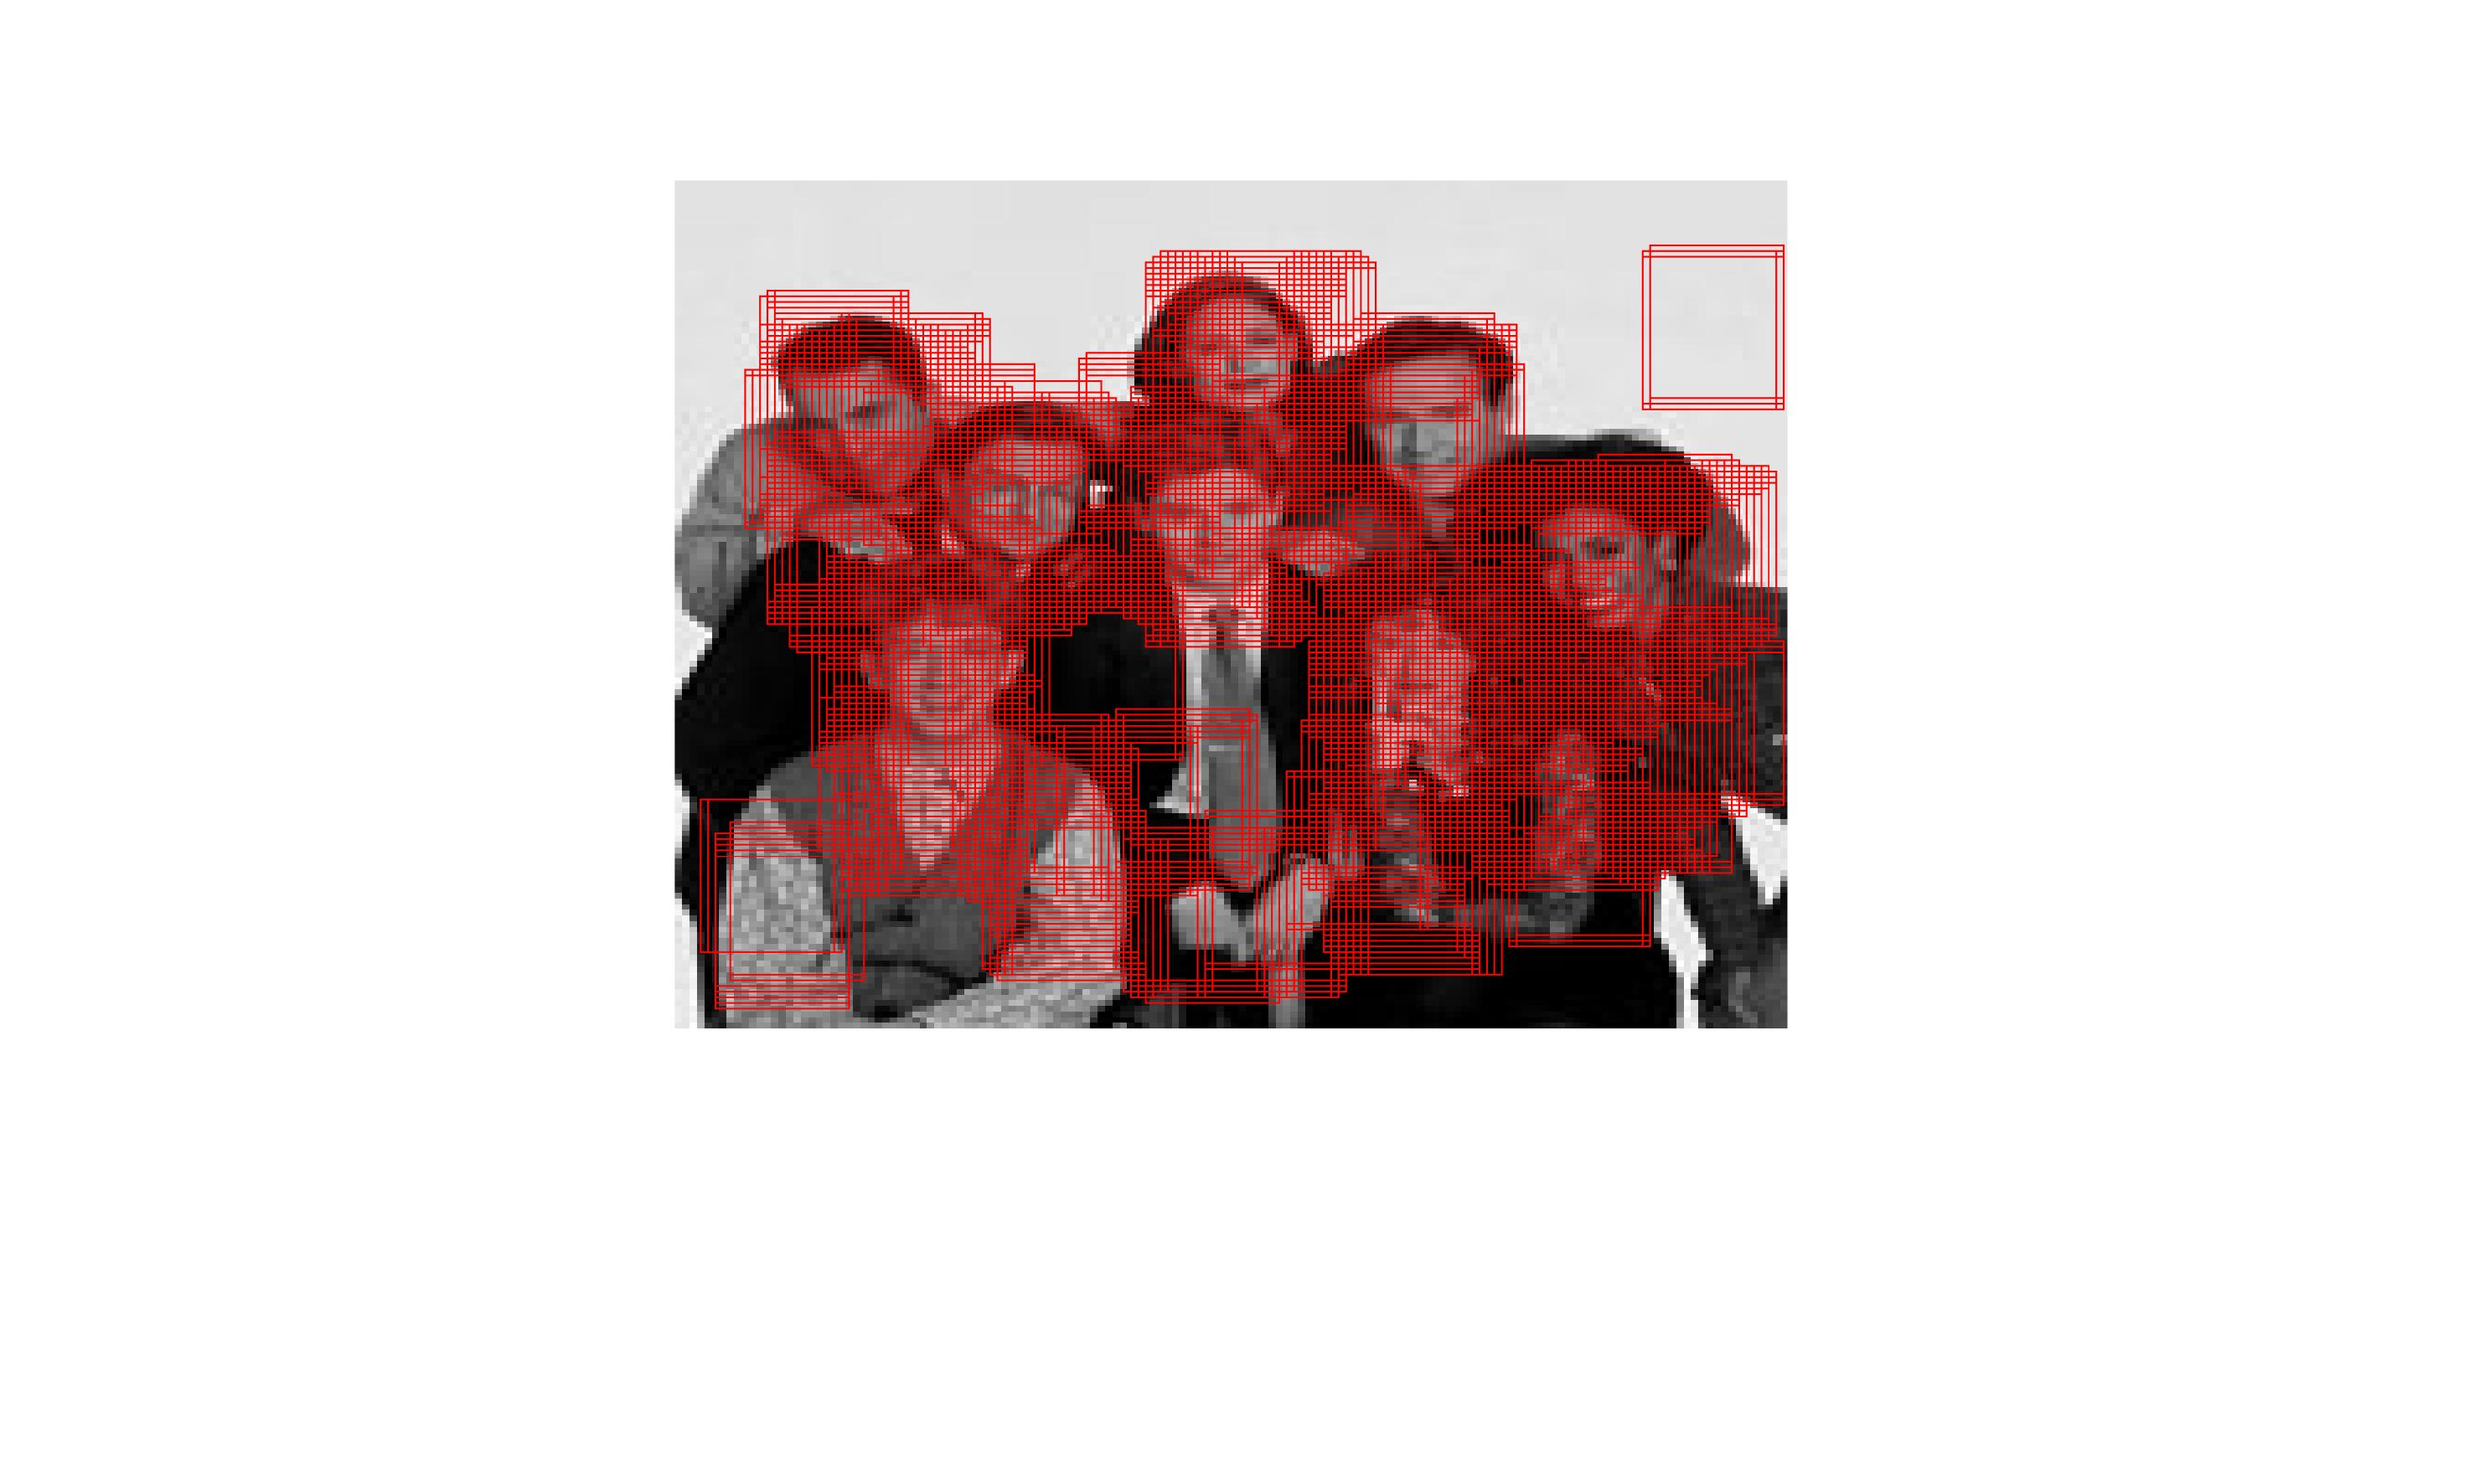
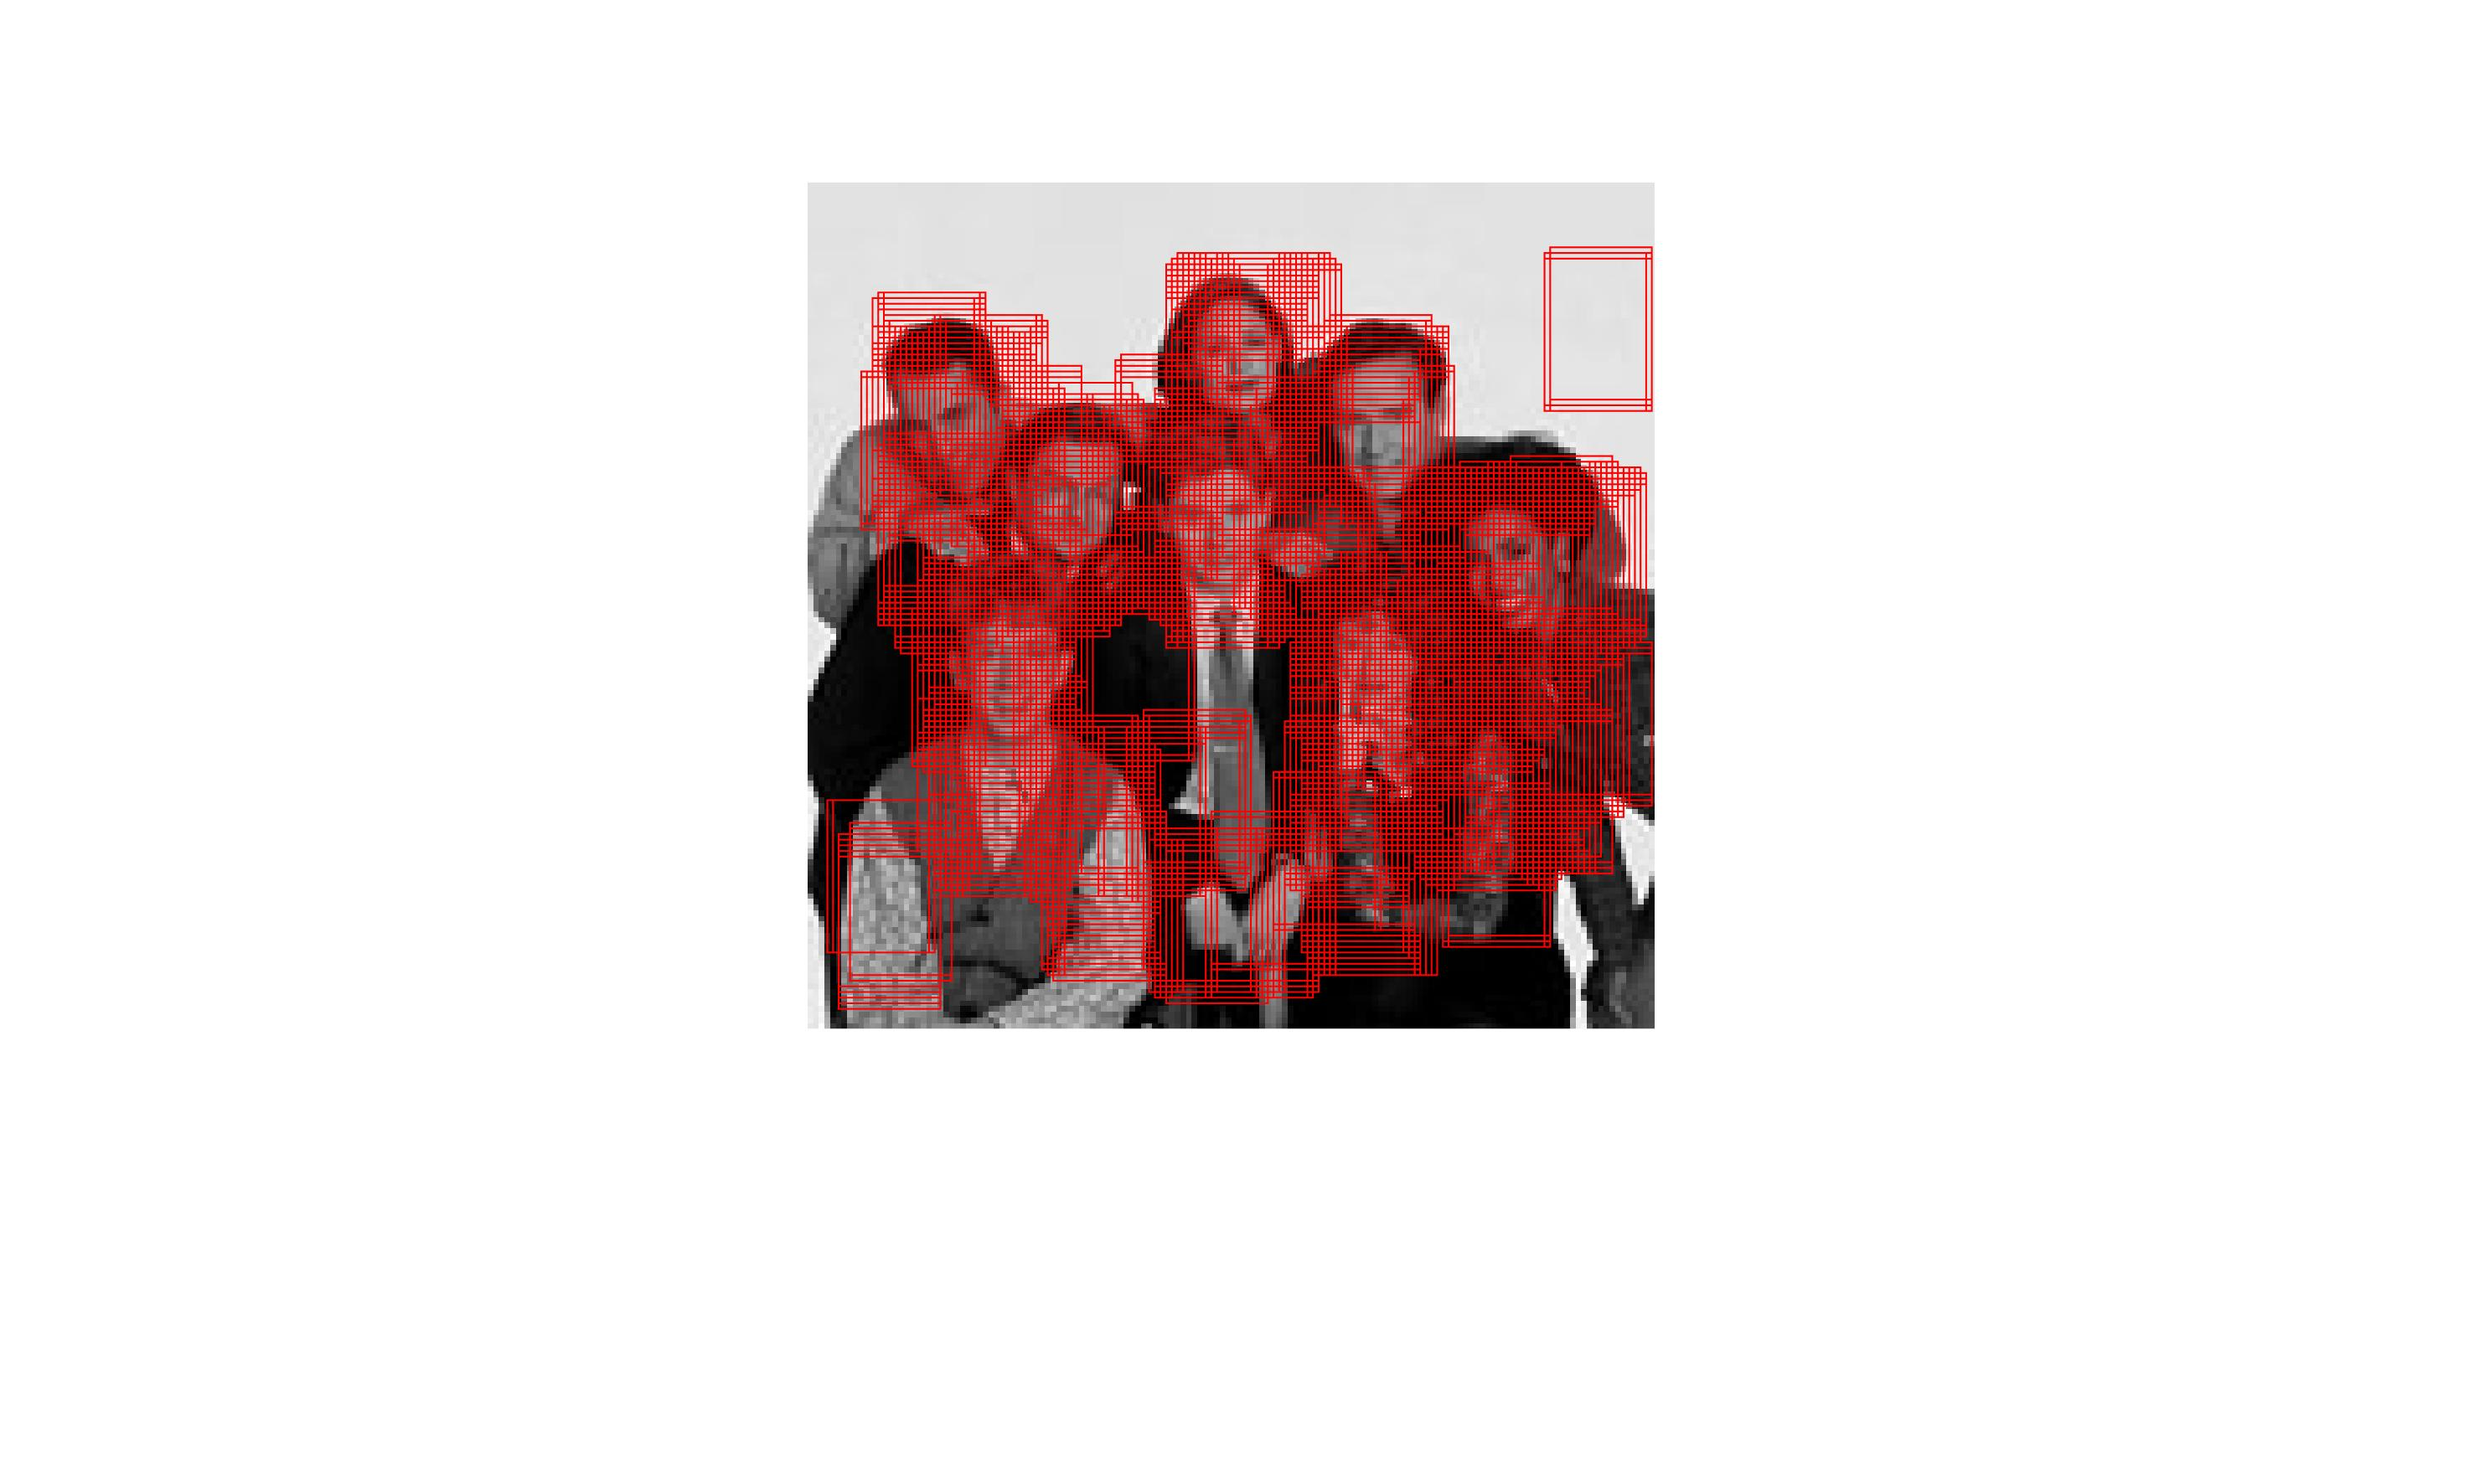
Added Full Image SVM Detector

Changed region(s): [[0.2492, 0.1242, 0.7477, 0.7139]]

diff --git a/code/fullImage_SVM_Detector.m b/code/fullImage_SVM_Detector.m
@@ -1,0 +1,45 @@
+clear
+close all
+
+% Imports
+addpath('dataset');
+addpath('functions');
+addpath('functions/SVM-KM');
+addpath('functions/Detectors');
+
+load('fullImage_SVM.mat'); % Model name is SVM Model
+windowSize = [18, 27]; % Window Size is the size of the test set images
+
+images{1} = imread('images/im1.jpg');
+images{2} = imread('images/im2.jpg');
+images{3} = imread('images/im3.jpg');
+images{4} = imread('images/im4.jpg');
+
+prefix = "results/fullImage_SVM_im";
+suffix = ".jpg";
+
+for iNumber = 1:4
+    fprintf("Starting image number %d\n", iNumber);
+    figure(iNumber);
+    thisImg = cell2mat(images(iNumber));
+    imshow(thisImg); % Shows Image
+
+    % Gets boundingboxes for the test image, this should indicate a face
+    % detected
+    bBoxes = FullImageSVMDetector(modelSVM, thisImg, windowSize);
+    fprintf("Bounding Boxes got for image number %d\n", iNumber);
+    
+    % Goes through all of the bounding boxes and displays them on the image
+    for i = 1:size(bBoxes,1) 
+        rectangle('Position',[bBoxes(i, 1),bBoxes(i, 2),windowSize(1),windowSize(2)],'LineWidth',1, 'EdgeColor','r');
+    end
+    fprintf("Bounding Boxes drawn for image number %d\n", iNumber);
+    
+    filename = strcat(prefix, int2str(iNumber), suffix);
+    set (gcf, 'PaperPositionMode', 'manual','PaperPosition',[0, 0, 50, 30])
+    print(figure(iNumber),filename,'-djpeg'); 
+    fprintf("Saved image number %d\n", iNumber);
+    
+    fprintf("Finished image number %d\n", iNumber);
+end
+

diff --git a/code/functions/Detectors/FullImageSVMDetector.m b/code/functions/Detectors/FullImageSVMDetector.m
@@ -1,0 +1,34 @@
+function [boundingBoxes] = FullImageSVMDetector(model,image, windowSize)
+    row = 1;
+    col = 1;
+    [maxCol, maxRow] = size(image);
+
+    windowMax = 1;
+    for y = col:maxCol-windowSize(2)   
+        for x = row:maxRow-windowSize(1)
+            windowMax = windowMax+1;
+        end
+    end
+
+    results = zeros(windowMax,1);
+    boundingBox = zeros(windowMax,2);
+    windowNumber = 1;
+    pBar = textprogressbar(windowMax);
+    
+    for y = col:maxCol-windowSize(2)   
+        for x = row:maxRow-windowSize(1)
+            po = [x, y, windowSize(1) - 1, windowSize(2) - 1];
+            img = imcrop(image, po);
+            imgTrans = img(:);
+            imgFinal = double(imgTrans');
+            results(windowNumber) = SVMTesting(imgFinal,model);
+            boundingBox(windowNumber, 1) = x;
+            boundingBox(windowNumber, 2) = y;
+            windowNumber = windowNumber+1;
+            pBar(windowNumber)
+        end
+    end
+
+    boundingBoxes = boundingBox(results == 1, :);
+end
+

diff --git a/code/fullImage_SVM.m b/code/fullImage_SVM.m
@@ -25,7 +25,7 @@ modelSVM = SVMTraining(images, labels);
 results = zeros(size(images,1),1);
 
 for i=1:size(images,1)
-    test_image = images(i,:);
+    test_image = images(i,:)
     results(i) = SVMTesting(test_image,modelSVM);
 end
 
